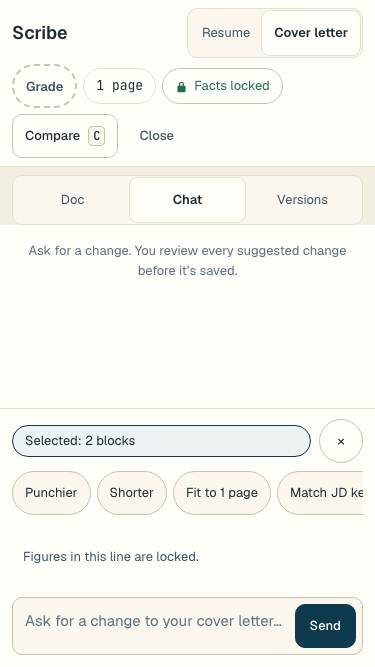
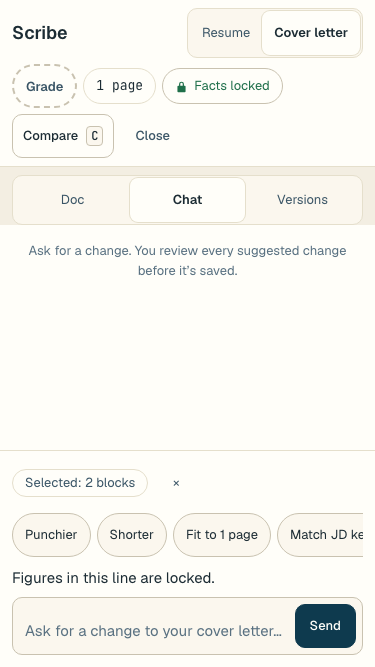
docs(scrp): corrected UX before images, issue ledger and review page draft
Six UX-DELTA before images were byte-identical to their after images;
regenerate them from the final markup with the base stylesheet.

Claude-Session: https://claude.ai/code/session_01Vxz76XKQvASoqj886opQD9

diff --git a/docs/programs/scribe-polish-20261003/IMPLEMENTATION-REVIEW.html b/docs/programs/scribe-polish-20261003/IMPLEMENTATION-REVIEW.html
@@ -1,0 +1,122 @@
+<title>Scribe Editor Repairs</title>
+<link rel="preconnect" href="https://fonts.googleapis.com">
+<link rel="preconnect" href="https://fonts.gstatic.com" crossorigin>
+<link rel="stylesheet" href="https://fonts.googleapis.com/css2?family=Caveat:wght@600&family=Geist:wght@400;500;600&family=JetBrains+Mono:wght@400;500&display=swap">
+<style>
+/* Layout: one reading column; status ledger tables; before/after pairs in a two-up grid that stacks on phones. JobBored's own paper/ink/mint tokens. */
+:root {
+  --paper: #FFFEF9; --paper-2: #F6F3EA; --ink: #1B2B33; --ink-2: #4A5A62; --line: #D9D2C0;
+  --mint: #2F8A5A; --mint-tint: #E7F5EC; --warn: #A15C07; --warn-tint: #FBF0DF; --err: #B4321F; --err-tint: #F9E6E2;
+  --display: "Caveat", "Bradley Hand", cursive;
+  --body: "Geist", -apple-system, BlinkMacSystemFont, "Segoe UI", system-ui, sans-serif;
+  --mono: "JetBrains Mono", ui-monospace, "SF Mono", Menlo, monospace;
+}
+@media (prefers-color-scheme: dark) { :root:not([data-theme="light"]) {
+  --paper: #121A1E; --paper-2: #1A242A; --ink: #E8EEF0; --ink-2: #A9B6BC; --line: #33424A;
+  --mint: #6FD39C; --mint-tint: #183326; --warn: #E3A04B; --warn-tint: #33260F; --err: #F08A78; --err-tint: #3A1A15; color-scheme: dark } }
+:root[data-theme="dark"] {
+  --paper: #121A1E; --paper-2: #1A242A; --ink: #E8EEF0; --ink-2: #A9B6BC; --line: #33424A;
+  --mint: #6FD39C; --mint-tint: #183326; --warn: #E3A04B; --warn-tint: #33260F; --err: #F08A78; --err-tint: #3A1A15; color-scheme: dark }
+body { background: var(--paper); color: var(--ink); font-family: var(--body); font-size: 15px; line-height: 1.55; }
+.wrap { max-width: 1040px; margin: 0 auto; padding: 32px 20px 64px; display: grid; gap: 40px; }
+header { display: grid; gap: 10px; }
+.kicker { font-family: var(--mono); font-size: 12px; letter-spacing: .06em; text-transform: uppercase; color: var(--ink-2); }
+h1 { font-family: var(--display); font-weight: 600; font-size: clamp(40px, 7vw, 60px); line-height: 1; margin: 0; text-wrap: balance; }
+h2 { font-size: 20px; font-weight: 600; margin: 0 0 12px; text-wrap: balance; }
+p { margin: 0; max-width: 68ch; }
+.lede { font-size: 17px; color: var(--ink); }
+.meta { display: flex; flex-wrap: wrap; gap: 8px 16px; font-family: var(--mono); font-size: 12.5px; color: var(--ink-2); }
+.meta b { color: var(--ink); font-weight: 500; }
+section { display: grid; gap: 14px; }
+.tablebox { overflow-x: auto; border: 1px solid var(--line); border-radius: 8px; }
+table { border-collapse: collapse; width: 100%; min-width: 680px; font-size: 14px; }
+th, td { text-align: left; vertical-align: top; padding: 10px 12px; border-bottom: 1px solid var(--line); }
+th { font-family: var(--mono); font-size: 11.5px; font-weight: 500; letter-spacing: .05em; text-transform: uppercase; color: var(--ink-2); background: var(--paper-2); }
+tr:last-child td { border-bottom: 0; }
+td.id { font-family: var(--mono); font-size: 13px; white-space: nowrap; }
+code { font-family: var(--mono); font-size: 12.5px; background: var(--paper-2); padding: 1px 5px; border-radius: 4px; }
+.pill { display: inline-block; font-family: var(--mono); font-size: 11.5px; padding: 2px 8px; border-radius: 999px; white-space: nowrap; }
+.ok { background: var(--mint-tint); color: var(--mint); }
+.gap { background: var(--warn-tint); color: var(--warn); }
+.no { background: var(--err-tint); color: var(--err); }
+.nums { font-variant-numeric: tabular-nums; }
+.pairs { display: grid; gap: 28px; }
+.pair { display: grid; gap: 10px; }
+.pair h3 { font-size: 15px; font-weight: 600; margin: 0; }
+.shots { display: grid; grid-template-columns: 1fr 1fr; gap: 12px; }
+figure { margin: 0; display: grid; gap: 6px; min-width: 0; }
+figure img { width: 100%; height: auto; border: 1px solid var(--line); border-radius: 6px; background: var(--paper-2); }
+figcaption { font-family: var(--mono); font-size: 11.5px; color: var(--ink-2); }
+ul.gaps { margin: 0; padding-left: 20px; display: grid; gap: 8px; max-width: 76ch; }
+.note { color: var(--ink-2); font-size: 13.5px; }
+@media (max-width: 640px) { .shots { grid-template-columns: 1fr; } .wrap { padding-top: 20px; } }
+</style>
+
+<div class="wrap">
+<header>
+  <div class="kicker">JobBored · Scribe editor · program SCRP · 2026-10-03</div>
+  <h1>Scribe editor repairs</h1>
+  <p class="lede">Both editors, résumé and cover letter, now keep unfinished suggestions recoverable. They report saves truthfully and stop cleanly, and they explain failures in plain words. You can also scope a request to selected blocks and edit a block's text directly, by mouse or keyboard.</p>
+  <div class="meta"><span>branch <b>feat/scribe-polish-20261003</b></span><span>candidate <b>3fea8656</b></span><span>base <b>3641d33f</b></span><span>local only · not pushed</span></div>
+</header>
+
+<section id="issues">
+  <h2>Issues and how each was resolved</h2>
+  <div class="tablebox"><table>
+    <thead><tr><th>ID</th><th>What went wrong</th><th>What happens now</th><th>Proof on the candidate</th><th>Status</th></tr></thead>
+    <tbody>
+      <tr><td class="id">RISK-01</td><td>A Stop that won the race could still be overwritten as "ready", and two finish events were sent.</td><td>A proposal finishes exactly once. Stop keeps the partial changes, a failed disk write still ends every open stream, and Discard can't bring a file back.</td><td class="nums">The strict Stop test passed 20/20 in each of 7 host rounds (140 runs). The ordering tests SCRP-B1–B3, B17, B23 and B30 failed before the fix.</td><td><span class="pill ok">fixed</span></td></tr>
+      <tr><td class="id">ASTRA-01</td><td>Closing, switching documents or sending a second request stranded a ready proposal and blocked both documents with "answered 409".</td><td>An unfinished request comes back with Review and Discard. Your typed text is kept. Discard waits for the server and says so if it fails.</td><td>QA: 3/3 PASS for each document in a real browser against the real service. SCRP-F21, F23, F74–F76.</td><td><span class="pill ok">fixed</span></td></tr>
+      <tr><td class="id">ASTRA-02</td><td>Pressing Stop before the request had an ID left a hidden pending request, and retrying got a 409.</td><td>Stop is remembered. When the late ID arrives the request is stopped. Old callbacks can't change the next document.</td><td>QA: PASS for both documents (null ID, then late stop 200, then retry 202). SCRP-F22, F77.</td><td><span class="pill ok">fixed</span></td></tr>
+      <tr><td class="id">ASTRA-03</td><td>The text was saved, but the PDF failed and the editor said "Not saved". Pressing Save again failed.</td><td>The editor says "Text saved as v1. PDF unavailable — it’s rebuilt on your next save." Save is gone, and the history and preview move forward. The other document's PDF is kept.</td><td>QA: PASS for both documents. The real-PDF gate passed 4/4. SCRP-B8–B10, B15/B16, B28.</td><td><span class="pill ok">fixed</span></td></tr>
+      <tr><td class="id">ASTRA-04</td><td>After a newer version appeared, the retried request showed the old version header and old redlines.</td><td>The editor installs the actual current version before showing any marks.</td><td>QA: PASS for both documents. SCRP-F14, F26.</td><td><span class="pill ok">fixed</span></td></tr>
+      <tr><td class="id">ASTRA-05</td><td>Useful server explanations were replaced by "The materials server answered 409/503". Provider failures were blamed on the template.</td><td>Each cause gets its own message and next step: provider down, unreadable reply, rate limited, cut off, model not set up, and a real layout problem. No raw payloads or paths are shown.</td><td>Real-service browser tests cover 7 codes for each document (SCRP-F27/F28). QA: PASS.</td><td><span class="pill ok">fixed</span></td></tr>
+      <tr><td class="id">GAP-02</td><td>You could select text, but every request still applied to the whole document.</td><td>Requests are scoped to the selected blocks, using server node IDs. A scope pill and actions toolbar appear. A stale selection asks you to select again and never widens silently. Blocks are reachable by keyboard.</td><td>QA: PASS at 1440 and 375 for both documents. Keyboard reachability (KBD-01) is fixed and being rechecked by QA. <span data-slot="qa3"></span></td><td><span class="pill ok" data-slot="gap02">fixed</span></td></tr>
+      <tr><td class="id">GAP-01</td><td>There was no way to type into the document directly.</td><td>Plain-text block editing saves one version two seconds after you leave the block. Locked figures can't be edited, even at their edges. New facts need explicit confirmation, with every new phrase listed. Drafts survive conflicts and closing the role.</td><td>QA: PASS for both documents (one version, sibling unchanged, lock refused, plain paste, confirmation, stale draft kept).</td><td><span class="pill ok" data-slot="gap01">fixed</span></td></tr>
+    </tbody>
+  </table></div>
+</section>
+
+<section id="ux">
+  <h2>Before and after</h2>
+  <p class="note">Left: base 3641d33f. Right: candidate. Fictional data. Each "before" for a new control shows the final markup with the old stylesheet.</p>
+  <div class="pairs">
+    <div class="pair"><h3>Saved text when the PDF fails (résumé, 375px)</h3><div class="shots"><figure><img src="ux/pdf-resume-375-before.png" alt="Before: the editor reports the save as failed"><figcaption>before</figcaption></figure><figure><img src="ux/pdf-resume-375-after.png" alt="After: Text saved, PDF unavailable"><figcaption>after</figcaption></figure></div></div>
+    <div class="pair"><h3>Reviewing suggested changes (résumé, 1440px)</h3><div class="shots"><figure><img src="ux/review-resume-1440-before.png" alt="Before: review bar"><figcaption>before</figcaption></figure><figure><img src="ux/review-resume-1440-after.png" alt="After: review bar with suggested-change wording and saved-fact warning"><figcaption>after</figcaption></figure></div></div>
+    <div class="pair"><h3>Provider error keeps your request (cover letter, 375px)</h3><div class="shots"><figure><img src="ux/error-letter-375-before.png" alt="Before: generic error"><figcaption>before</figcaption></figure><figure><img src="ux/error-letter-375-after.png" alt="After: specific explanation and next step"><figcaption>after</figcaption></figure></div></div>
+    <div class="pair"><h3>Selection actions (résumé, 375px)</h3><div class="shots"><figure><img src="ux/selection-resume-375-before.png" alt="Before: selection toolbar with base styles"><figcaption>before</figcaption></figure><figure><img src="ux/selection-resume-375-after.png" alt="After: wrapped toolbar with visible single-block hint"><figcaption>after</figcaption></figure></div></div>
+    <div class="pair"><h3>Direct text edit (cover letter, 375px)</h3><div class="shots"><figure><img src="ux/manual-letter-375-before.png" alt="Before: manual edit panel with base styles"><figcaption>before</figcaption></figure><figure><img src="ux/manual-letter-375-after.png" alt="After: stable manual-edit status panel"><figcaption>after</figcaption></figure></div></div>
+    <div class="pair"><h3>Unsaved text on navigation (résumé, 375px)</h3><div class="shots"><figure><img src="ux/unsaved-resume-375-before.png" alt="Before: unsaved prompt with base styles"><figcaption>before</figcaption></figure><figure><img src="ux/unsaved-resume-375-after.png" alt="After: Save, Discard, Stay"><figcaption>after</figcaption></figure></div></div>
+  </div>
+</section>
+
+<section id="proof">
+  <h2>Verification on the frozen candidate</h2>
+  <div class="tablebox"><table class="nums">
+    <thead><tr><th>Gate</th><th>Command scope</th><th>Result</th></tr></thead>
+    <tbody>
+      <tr><td>A · service</td><td>nodes, edit, fact-check, commit, pipeline, integration API, regenerate</td><td>142 / 142, 0 skipped</td></tr>
+      <tr><td>B · editor units</td><td>api, lifecycle, carryover, keyboard, diff, versions, selection, manual, score, node IDs</td><td>320 / 320, 0 skipped</td></tr>
+      <tr><td>C · browser</td><td>edit journey, desk, real-PDF save (both documents, real service)</td><td>70 / 70</td></tr>
+      <tr><td>CSP · visual</td><td>scriptless frame smoke · Scribe visual spec</td><td>6 / 6 · 21 / 21</td></tr>
+      <tr><td>D · contracts</td><td>materials contract, lint, typecheck, all contracts</td><td>all exit 0</td></tr>
+      <tr><td>E · Stop stress</td><td>strict Stop test, 20 separate runs</td><td>20 / 20</td></tr>
+      <tr><td>Full suite</td><td><code>npm test</code></td><td>7878 / 7889 pass, 0 skipped, 7 todo. The 4 failures also fail on base (logo resolver, submission ownership gate, Docker boot).</td></tr>
+      <tr><td>Live provider</td><td>Gemini, 2 fictional requests per document</td><td>4 / 4 saved, persisted, sibling unchanged</td></tr>
+      <tr><td>Secrets</td><td><code>gitleaks detect 3641d33f..3fea8656</code></td><td>no leaks</td></tr>
+    </tbody>
+  </table></div>
+  <p class="note">Independent review: a Fable plan check before any code, then four diff rounds alternating Fable, Astra, Fable and Astra. Every finding was fixed with a test that failed first. Round 4: <span data-slot="r4">pending</span>.</p>
+</section>
+
+<section id="gaps">
+  <h2>Not proven, and what needs you</h2>
+  <ul class="gaps">
+    <li><span class="pill no">unavailable</span> Safari/WebKit. The WebKit download timed out twice, so selection and direct editing are proven in Chrome and Chromium only.</li>
+    <li><span class="pill gap">unverified</span> Physical touch, the iOS keyboard and screen-reader speech. Phone coverage is desktop Chrome at 375px.</li>
+    <li><span class="pill gap">limited</span> The live-provider check proves saves through the service and the server-rendered preview, not a browser screenshot of a live save.</li>
+    <li><span class="pill gap">your call</span> Test runs wrote 7 fictional logo files (Acme, Beta Supply, Fabrikam, Contoso, Northwind and others) into <code>~/.jobbored/logos</code> and touched its two manifests before isolation was fixed. They were left in place.</li>
+    <li><span class="pill gap">heads-up</span> <code>feat/scribe-widgets-be</code> touches five of the same files and will need a rebase after this lands. The history includes one <code>wip(scribe)</code> checkpoint commit.</li>
+  </ul>
+</section>
+</div>

diff --git a/docs/programs/scribe-polish-20261003/ISSUE-LEDGER.md b/docs/programs/scribe-polish-20261003/ISSUE-LEDGER.md
@@ -1,0 +1,51 @@
+# SCRP issue ledger: issue → fix → red-first test → candidate evidence → status
+
+**Goal:** map every repair ID, capability and UX change to its files, commits, red-first test and candidate evidence.
+**Success means:** every row names a commit and a test, and shows real evidence with its status.
+**Stop when:** the final candidate is frozen and every row is filled. Rows marked ⏳ wait on FIX3.
+
+| Short name | Meaning |
+|---|---|
+| *host floor* | Commands I ran myself on the integration branch, logged in `PROGRAM-LOG.md` |
+| *QA-P2* | `reports/qa-phase2/QA-REPORT.md`, Astra browser acceptance on `a9ed80ce` |
+| *R1/R2/R3* | The independent review verdicts in `reports/` |
+
+All browser evidence uses fictional data and installed Chrome or Chromium with isolated storage.
+
+## Repairs
+
+| ID | Before (baseline 3641d33f) | Fix: files and commits | Red-first test | Candidate evidence | Status |
+|---|---|---|---|---|---|
+| **RISK-01** (R0) Stop vs measuring race | Controlled interleaving persisted `ready` after a winning Stop; `done` sent `[partial, ready]`; strict test 59/60 for Astra | `server/materials-versions.mjs`. `ea6eca25` synchronous terminal claim plus serialized queue. `00388821` reconnect replay behind persisted events. `7a8406af` and `a8d704f9` failed terminal write still delivers `done` to every subscriber. `13ccf37f` queue release | SCRP-B1/B2/B3 (`['partial','ready']` → `['partial']`), B17, B23, B30 | Host: E 20/20 strict-Stop runs in each of 7 host rounds (140/140), including the final frozen candidate. A green. QA-P2 Stop-during-checking PASS on both documents | ✅ Fixed. Exhaustive race freedom is not claimed |
+| **ASTRA-01** Orphaned ready proposal after close, switch or resubmit | FAIL 6/6: generic 409, no controls, proposal stranded | Server: `53a92eba` GET `/edits/open` plus reprocess reset, `6daca654` shared eligibility. Client: `cdca3c8c`, `ad5b9752` recovery, guarded Send and awaited Discard. R1 #9/#14/#15/#18 and R2 #5/#6/#7 hardening | SCRP-B4–B7, F6–F11, F21 (browser, both documents), F23, F74–F76 | QA-P2: PASS 3/3 per document (recovered, draft kept, discard then retry 202). Host C green | ✅ Fixed |
+| **ASTRA-02** Stop before the proposal ID arrives | FAIL 2/2: no stop sent, pending zero-op proposal, retry 409 | Client: `ad5b9752` request identity, stop intent, late-ID stop and generation guards. `978ed403` and `61a985c2` settle Stop from the server's terminal state | SCRP-F22 (deferred POST × Stop/close/switch/new editor, both documents), F77 | QA-P2: PASS. Null ID → late stop 200 → retry 202 | ✅ Fixed |
+| **ASTRA-03** Saved text reported as "Not saved" when PDF fails | FAIL 2/2: UI said Not saved, duplicate Save got 409 | Server: `d70dd9ac` `retryable:false`, bring-back `n`/`versions`, sibling PDF kept. Client: `cdca3c8c` and `fc0fe18e` committed-503 handling. `336c35ff` no invented version number. Copy per D9 | SCRP-B8/B9/B10, B15/B16 (real PDF), B28 (production envelope), F3, F12, F24/F25 | QA-P2: PASS. Shows "Text saved as v1. PDF unavailable — it’s rebuilt on your next save."; no duplicate Save. Host F 4/4 | ✅ Fixed |
+| **ASTRA-04** Stale-base retry kept the old header and redlines | FAIL 2/2 | Client: `fc0fe18e` exact-base install (C2 client contract) and iframe-load gate. `9f4e3978` load-token fence | SCRP-F14, F26 (real service), F20-race | QA-P2: PASS. Stale save refused, newer text kept, review uses the actual base | ✅ Fixed |
+| **ASTRA-05** Safe server explanations replaced by "answered 409/503" | FAIL on both documents; provider and malformed replies both shown as template problems | Server: `d21a6710`, `f4aa53d2` writer classification with fixed safe messages; `e386d972` D20 mapping. Client: `e0c3d745`, `061bab37`, `a5cbbe97`, `15eeee34` mapped copy plus `nextStep` | SCRP-B11–B13, B18/B19, F13, F27/F28 (real service, 7 codes × both documents), F78 | QA-P2: PASS, cause-specific copy. Host C green | ✅ Fixed |
+
+## Capabilities
+
+| ID | Before | Fix | Red-first | Candidate evidence | Status |
+|---|---|---|---|---|---|
+| **GAP-02 / F1** Selection and focused-block scope | Selection existed, but requests always covered the whole document | `d30db904`, `d643fcbd` parent-installed listeners in a scriptless frame, server node IDs, scope pill, actions toolbar. R2 #11, R3 #3/#11 ⏳ | `tests/scribe-v2-selection.test.mjs` (0/20 pass on base together with the manual file), F43, F46, F47 (CSP) | QA-P2: PASS at 1440/375 on both documents (exact ID payload, stale refused, sibling op rejected). **Keyboard-only access FAILED (QA-KBD-01) → FIX3 D25** ⏳ | ⏳ |
+| **GAP-01 / F2** Direct manual editing | No editor at all | `d30db904`, `d643fcbd` plain-text blocks, 2s debounce, one manual version. `2cddf8af` D21 batch confirm. `fe5b655a` D22 UTF-16 locks. `6a0bb42c` D23 role-close draft. `cf99e821` server gate. R3 #1/#2/#4–#7/#10/#12 ⏳ | `tests/scribe-v2-manual.test.mjs`, F44, F45, F71–F73, F79, B14 | QA-P2: PASS. One version, sibling unchanged, lock refused, plain paste, new-fact confirm, stale draft kept. R3-#2 edge insert next to a locked figure → FIX3 D24 ⏳ | ⏳ |
+
+## UX and copy
+
+See `UX-DELTA.md`: 10 before/after rows and 20 images, plus `COPY-BRIEF.md` for every string change.
+
+| Change | Commit | Evidence | Status |
+|---|---|---|---|
+| Copy brief applied: no status codes, no "materials server", "suggested changes" vocabulary, one Discard label, D9 PDF copy | FE-1 `e0c3d745`…, FE-2 copy, R1 #12/#13/#23, R2 #9/#12 | `grep` finds no banned strings (R2/R3 reviewers). QA-P2 observed strings | ✅ |
+| Recovery, status and scope/selection/manual/unsaved styling at 1440/375; 44px targets; no sideways scroll | `66c9d0bd`, `66efd440`, `4b36149b` | Visual 21/21 (SCRP-U1…U5). QA-P2 measured `scrollWidth` = viewport and controls ≥44px | ✅ |
+| Score-modal Fix this / Apply / Repair → editor | none needed | QA-P1 and QA-P2: 24/24 on both documents at both widths | ✅ Verified, no defect |
+
+## Proof lanes
+
+| Lane | Result |
+|---|---|
+| Live provider (host-run, `a9ed80ce`) | Gemini `gemini-flash-latest`: 4/4 fictional requests (2 per document) → ready, accept 200, `edit` provenance, saved model and server preview contain the text, reopen persists, sibling byte-equal. Shown as server-rendered preview HTML, not a browser screenshot |
+| Real installed-browser PDF | Host F 4/4. QA-P2 UI download, reopen and Poppler check on both documents: 1 page, fonts embedded, sibling PDF bytes equal |
+| Full `npm test` (`b6a2f5fc`) | 7837 tests, 7826 pass, 4 fail, 0 skipped, 7 todo. The same failures (logo resolver with `RESOLVER=off`, submission-record ownership gate, E5 Docker boot) also fail on base 3641d33f: no regressions. Rerun on the final candidate ⏳ |
+| WebKit / Safari | **Unavailable**: the WebKit 2359 download timed out twice. F1/F2 are proven in Chromium and Chrome only |
+| Physical touch, iOS keyboard, screen-reader speech | Unverified. 375px coverage is desktop Chrome emulation |

diff --git a/docs/programs/scribe-polish-20261003/PROGRAM-LOG.md b/docs/programs/scribe-polish-20261003/PROGRAM-LOG.md
@@ -37,3 +37,9 @@
 - 11:15Z QA phase 2 (astra) on a9ed80ce: all six repro classes PASS both docs; F1/F2 behaviour PASS 1440+375 incl. D21-D23; score modal 24/24; real PDF download/reopen both docs PASS (fonts embedded, sibling byte-equal); BLOCKED on QA-KBD-01 (blocks not keyboard-reachable) + QA-VIS-01 (UX spec fixture). REVIEW-R3 (fable): PASS-WITH-FIXES, R2 11/12 resolved (#3 partly), 13 residuals (3 M). Rulings D24 (locked figure atomic at edges, client+server) and D25 (keyboard reachable blocks). FIX3 lane spawned. Quota 11:10Z: Claude 5h 30% / 7d 32%; Codex weekly ~11%.
 - 11:17Z correction: Codex weekly reading measured now = see next line (the '~11%' above was an estimate, not a reading).
 - 11:17Z Codex weekly measured: 11% (account/rateLimits/read).
+- 11:32Z UX lane process exited after staging its final pass (respawn not needed): host ran its floor on the staged tree (lint ok, visual 21/21, journey+desk 61/61, gitleaks clean), rescue-committed 4b36149b, merged → d738a675. UX-DELTA.md (10 rows, 20 images, 2.0 MB) delivered. Dossier manual-edit layout defect routed to FIX3 (UX-FE-1). UX swept.
+- 11:55Z FIX3 DONE 90abfc35 merged → 81201347. Host floor: A(+regen) 142/142 sk0; E 20/20; B+cap 320/320 sk0; C 69/69; CSP 6/6; visual 21/21; D exit 0; diff --check clean. FIX3 lane then consumed the queued UX-FE-1 instruction (Dossier manual-edit layout) and is working it.
+- 12:05Z UX-FE-1 9227fee6 merged → 3fea8656 = FROZEN CANDIDATE. Host: B+cap 320/320 sk0; C 70/70; CSP 6/6; visual 21/21; lint ok; diff --check clean. FIX3 swept. Launched REVIEW-R4 (astra read-only, a9ed80ce..3fea8656) and QA phase 3 (astra cua, keyboard + regression recheck on 3fea8656).
+- 12:10Z FINAL FLOOR on frozen candidate 3fea8656 (detached snapshot, isolated env): A(+regen) 142/142 sk0; E 20/20; D exit 0; npm test 7889 tests / 7878 pass / 4 fail / 0 skipped / 7 todo — failure set identical to base 3641d33f (logo resolver ×4-5 under RESOLVER=off, submission-record ownership gate, E5 Docker boot); gitleaks detect 3641d33f..3fea8656: no leaks. (Integration-side, same tree: B+cap 320/320, C 70/70, CSP 6/6, visual 21/21, lint ok.)
+- 12:18Z UX-DELTA EVIDENCE DEFECT (host check): 6/10 before/after pairs byte-identical (manual-letter-375, scope-letter-375, scope-resume-1440, selection-letter-1440, selection-resume-375, unsaved-resume-375). UX capture script lost with the swept worktree. Sonnet subagent regenerating the 6 'before' images (final DOM + base 3641d33f scribe-v2.css via route intercept).
+- 12:24Z 6 UX 'before' images regenerated (final DOM + base 3641d33f scribe-v2.css via route intercept registered after the harness fence); host md5 check: 10/10 pairs differ; visually checked scope-letter-375 pair. ISSUE-LEDGER.md and IMPLEMENTATION-REVIEW.html drafted.

diff --git a/docs/programs/scribe-polish-20261003/prompts/REVIEW-R4-astra.md b/docs/programs/scribe-polish-20261003/prompts/REVIEW-R4-astra.md
@@ -1,0 +1,9 @@
+You are the round-4 reviewer (Astra, read-only) for the SCRP program in /Users/emilionunezgarcia/Job-Bored.worktrees/scribe-polish-integration. Sol wrote all product code. You reviewed round 2; Fable reviewed rounds 1 and 3.
+
+Goal: independently review the final fix round (FIX3: R3-#1..#13, KBD-01 keyboard reachability, D24 atomic locked figures, UX-FE-1 Dossier manual-edit layout) for correctness, fact safety, accessibility and regressions.
+Success means: your final message is the verdict: first line PASS | PASS-WITH-FIXES | FAIL; numbered findings (file:line, failure scenario, proof, fix); then a table R3-#1..#13 + KBD-01 + D24 + UX-FE-1 → Resolved / Partly / Not resolved with proof.
+Stop when: the verdict is written.
+
+Scope: `git diff a9ed80ce..CANDIDATE -- . ':!docs/' ':!tests/e2e-visual/*-snapshots/'` (CANDIDATE given below). Inputs in docs/programs/scribe-polish-20261003/: FIX-R3.md (D24, D25, UX-FE-1), reports/VERDICT-SCRP-R3.md, reports/qa-phase2/QA-REPORT.md (QA-KBD-01), SPEC §0, COPY-BRIEF.md (+AMENDMENTS). Focus: D24 on both client (span-edge inserts) and server (assertUnlocked flanking) — try digits, letters, decimal points, %, $, unicode digits and surrogate pairs at both edges; D25 roving tabindex is DOM-only (no scripts in the sandboxed frame, CSP unchanged), focus never trapped, Escape path, locked blocks announced, J/K conflicts with existing review shortcuts; cross-document draft adoption; Discard/Save race gating; copy honesty.
+
+Your sandbox is read-only and cannot bind loopback; run only pure node unit tests if useful. The host runs the full floor. Report every issue; do not filter by severity.

diff --git a/docs/programs/scribe-polish-20261003/prompts/QA-P3-astra.md b/docs/programs/scribe-polish-20261003/prompts/QA-P3-astra.md
@@ -1,0 +1,12 @@
+You are lane QA (Astra) of the SCRP program, PHASE 3 (final keyboard and regression recheck). Read /Users/emilionunezgarcia/Job-Bored.worktrees/scribe-polish-integration/docs/programs/scribe-polish-20261003/FIX-R3.md (D24, D25, UX-FE-1) and your own phase-2 report in .lane-evidence/QA-REPORT.md of this worktree. CANDIDATE given below.
+
+Goal: confirm on the final candidate that QA-KBD-01 is fixed and nothing regressed.
+Success means: .lane-evidence/QA-REPORT-P3.md with first line DONE or BLOCKED: <why>, containing:
+(1) the strict keyboard-only journey you ran in phase 2 (Tab/F6 to the document, ArrowDown to a block, Enter → selection actions, Edit text, type, Tab out → exactly one manual version) for both docs at 1440 and 375 with JSON + screenshots;
+(2) locked-figure edge inserts (digit before/after 38%) refused in the browser;
+(3) Dossier résumé manual edit at 375: text uses the full row, not the gutter (UX-FE-1);
+(4) a fast re-run of the six repro classes and the F1/F2 matrix (both docs, 1440/375) — PASS/FAIL table;
+(5) visual floor and CSP smoke outputs.
+Stop when: the report is written.
+
+Steps: `git checkout --detach CANDIDATE` in this worktree; `source .lane-evidence/scrp-env/env.sh` before every run (never unset JOBBORED_HOME; never touch ~/.jobbored, the serving checkout, or ports 8080/3847/8644). Do not commit. Do not end your turn to check in.
